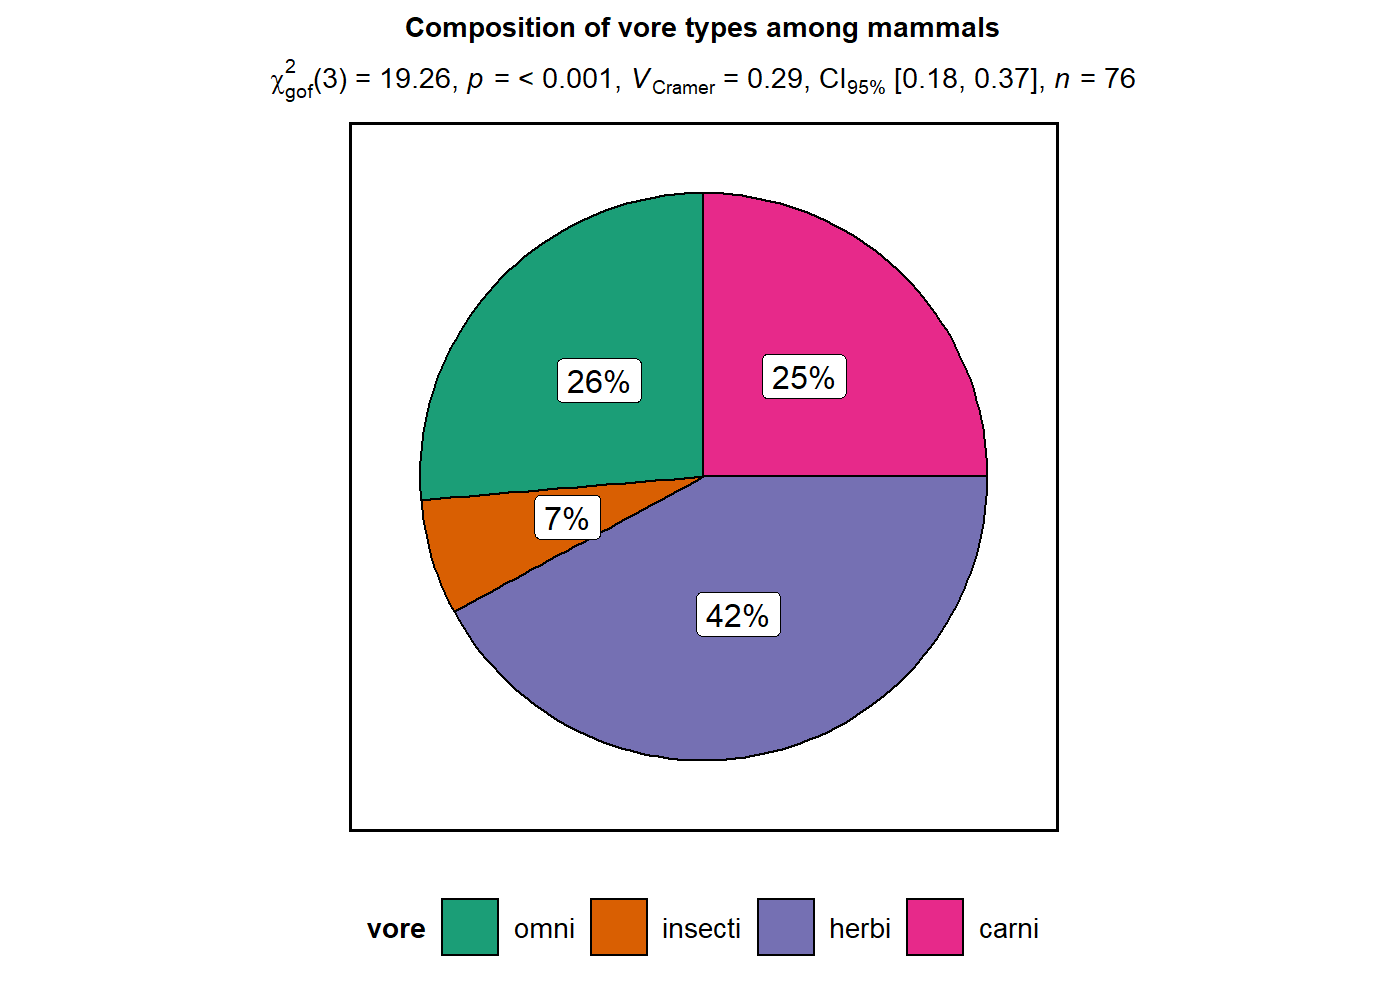
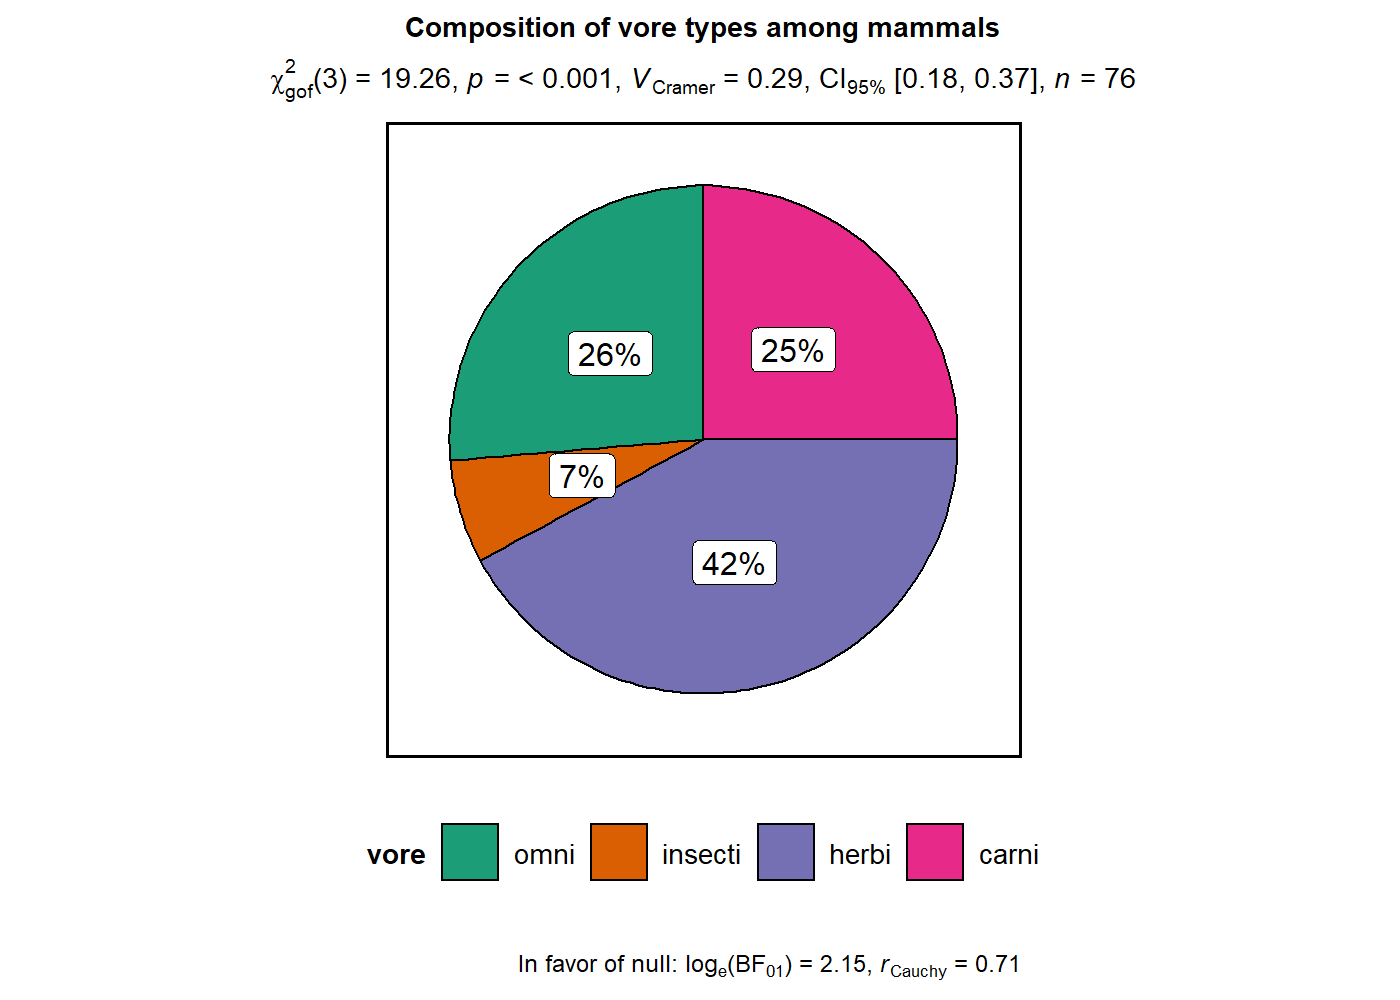
adding bayes factor for goodness of fit test for proportions

diff --git a/README.md b/README.md
@@ -9,7 +9,7 @@
 | [![CRAN Checks](https://cranchecks.info/badges/summary/ggstatsplot)](https://cran.r-project.org/web/checks/check_results_ggstatsplot.html)                      | [![AppVeyor Build Status](https://ci.appveyor.com/api/projects/status/github/IndrajeetPatil/ggstatsplot?branch=master&svg=true)](https://ci.appveyor.com/project/IndrajeetPatil/ggstatsplot) | [![Weekly downloads badge](https://cranlogs.r-pkg.org/badges/last-week/ggstatsplot?color=blue)](https://CRAN.R-project.org/package=ggstatsplot)   | [![Forks](https://img.shields.io/badge/forks-55-blue.svg)](https://github.com/IndrajeetPatil/ggstatsplot/)                                                     | [![Rdoc](https://www.rdocumentation.org/badges/version/ggstatsplot)](https://www.rdocumentation.org/packages/ggstatsplot)                                       |
 | [![minimal R version](https://img.shields.io/badge/R%3E%3D-3.5.0-6666ff.svg)](https://cran.r-project.org/)                                                      | [![lifecycle](https://img.shields.io/badge/lifecycle-maturing-blue.svg)](https://www.tidyverse.org/lifecycle/)                                                                               | [![Monthly downloads badge](https://cranlogs.r-pkg.org/badges/last-month/ggstatsplot?color=blue)](https://CRAN.R-project.org/package=ggstatsplot) | [![Github Issues](https://img.shields.io/badge/issues-18-red.svg)](https://github.com/IndrajeetPatil/ggstatsplot/issues)                                       | [![vignettes](https://img.shields.io/badge/vignettes-0.0.11-orange.svg?colorB=FF5722)](https://CRAN.R-project.org/package=ggstatsplot/vignettes/)               |
 | [![GitHub code size in bytes](https://img.shields.io/github/languages/code-size/IndrajeetPatil/ggstatsplot.svg)](https://github.com/IndrajeetPatil/ggstatsplot) | [![Coverage Status](https://coveralls.io/repos/github/IndrajeetPatil/ggstatsplot/badge.svg?branch=master)](https://coveralls.io/github/IndrajeetPatil/ggstatsplot?branch=master)             | [![Total downloads badge](https://cranlogs.r-pkg.org/badges/grand-total/ggstatsplot?color=blue)](https://CRAN.R-project.org/package=ggstatsplot)  | [![Github Stars](https://img.shields.io/github/stars/IndrajeetPatil/ggstatsplot.svg?style=social&label=Github)](https://github.com/IndrajeetPatil/ggstatsplot) | [![DOI](https://zenodo.org/badge/DOI/10.5281/zenodo.2074621.svg)](https://doi.org/10.5281/zenodo.2074621)                                                       |
-| [![Licence](https://img.shields.io/badge/licence-GPL--3-blue.svg)](https://www.gnu.org/licenses/gpl-3.0.en.html)                                                | [![Codecov test coverage](https://codecov.io/gh/IndrajeetPatil/ggstatsplot/branch/master/graph/badge.svg)](https://codecov.io/gh/IndrajeetPatil/ggstatsplot?branch=master)                   | [![HitCount](http://hits.dwyl.io/IndrajeetPatil/ggstatsplot.svg)](http://hits.dwyl.io/IndrajeetPatil/ggstatsplot)                                 | [![Last-changedate](https://img.shields.io/badge/last%20change-2019--06--20-yellowgreen.svg)](https://github.com/IndrajeetPatil/ggstatsplot/commits/master)    | [![GitHub last commit](https://img.shields.io/github/last-commit/IndrajeetPatil/ggstatsplot.svg)](https://github.com/IndrajeetPatil/ggstatsplot/commits/master) |
+| [![Licence](https://img.shields.io/badge/licence-GPL--3-blue.svg)](https://www.gnu.org/licenses/gpl-3.0.en.html)                                                | [![Codecov test coverage](https://codecov.io/gh/IndrajeetPatil/ggstatsplot/branch/master/graph/badge.svg)](https://codecov.io/gh/IndrajeetPatil/ggstatsplot?branch=master)                   | [![HitCount](http://hits.dwyl.io/IndrajeetPatil/ggstatsplot.svg)](http://hits.dwyl.io/IndrajeetPatil/ggstatsplot)                                 | [![Last-changedate](https://img.shields.io/badge/last%20change-2019--06--21-yellowgreen.svg)](https://github.com/IndrajeetPatil/ggstatsplot/commits/master)    | [![GitHub last commit](https://img.shields.io/github/last-commit/IndrajeetPatil/ggstatsplot.svg)](https://github.com/IndrajeetPatil/ggstatsplot/commits/master) |
 | [![status](https://tinyverse.netlify.com/badge/ggstatsplot)](https://CRAN.R-project.org/package=ggstatsplot)                                                    | [![Covrpage Summary](https://img.shields.io/badge/covrpage-Last_Build_2019_06_20-yellowgreen.svg)](https://github.com/IndrajeetPatil/ggstatsplot/blob/master/tests/README.md)                | [![saythanks](https://img.shields.io/badge/Say%20Thanks-!-1EAEDB.svg)](https://saythanks.io/to/IndrajeetPatil)                                    | [![Project Status](http://www.repostatus.org/badges/latest/active.svg)](http://www.repostatus.org/#active)                                                     | [![contributions welcome](https://img.shields.io/badge/contributions-welcome-brightgreen.svg?style=flat)](https://github.com/IndrajeetPatil/ggstatsplot/issues) |
 | [![Gitter chat](https://badges.gitter.im/gitterHQ/gitter.png)](https://gitter.im/ggstatsplot/community)                                                         | [![Dependency Status](https://dependencyci.com/github/IndrajeetPatil/ggstatsplot/badge)](https://dependencyci.com/github/IndrajeetPatil/ggstatsplot)                                         |                                                                                                                                                   |                                                                                                                                                                |                                                                                                                                                                 |
 
@@ -73,7 +73,7 @@ supported in this package-
 | `ggcorrmat`                      | Correlation matrix                                | <font color="green">Yes</font> | <font color="green">Yes</font> | <font color="green">Yes</font> | <font color="red">No</font>    |
 | `ggscatterstats`                 | Correlation between two variables                 | <font color="green">Yes</font> | <font color="green">Yes</font> | <font color="green">Yes</font> | <font color="green">Yes</font> |
 | `ggpiestats`, `ggbarstats`       | Association between categorical variables         | <font color="green">Yes</font> | `NA`                           | `NA`                           | <font color="green">Yes</font> |
-| `ggpiestats`, `ggbarstats`       | Equal proportions for categorical variable levels | <font color="green">Yes</font> | `NA`                           | `NA`                           | <font color="red">No</font>    |
+| `ggpiestats`, `ggbarstats`       | Equal proportions for categorical variable levels | <font color="green">Yes</font> | `NA`                           | `NA`                           | <font color="green">Yes</font> |
 | `ggcoefstats`                    | Regression model coefficients                     | <font color="green">Yes</font> | <font color="red">No</font>    | <font color="green">Yes</font> | <font color="red">No</font>    |
 
 # Summary of statistical tests and effect sizes
@@ -216,6 +216,7 @@ ggstatsplot::ggplot_converter
 #>   # returning the converted plot
 #>   return(p)
 #> }
+#> <bytecode: 0x000000002dab0048>
 #> <environment: namespace:ggstatsplot>
 ```
 
@@ -735,9 +736,8 @@ ggstatsplot::ggpiestats(
   palette = "Royal1"
 )
 #> Note: 99% CI for effect size estimate was computed with 100 bootstrap samples.
-#> Note: Results from one-sample proportion tests for each
-#>       level of the variable 2nd survey testing for equal
-#>       proportions of the variable 1st survey.
+#> Note: Results from one-sample proportion tests for each level of the variable
+#> 2nd survey testing for equal proportions of the variable 1st survey.
 #> # A tibble: 2 x 8
 #>   condition N     Approve Disapprove `Chi-squared`    df `p-value`
 #>   <fct>     <chr> <chr>   <chr>              <dbl> <dbl>     <dbl>
